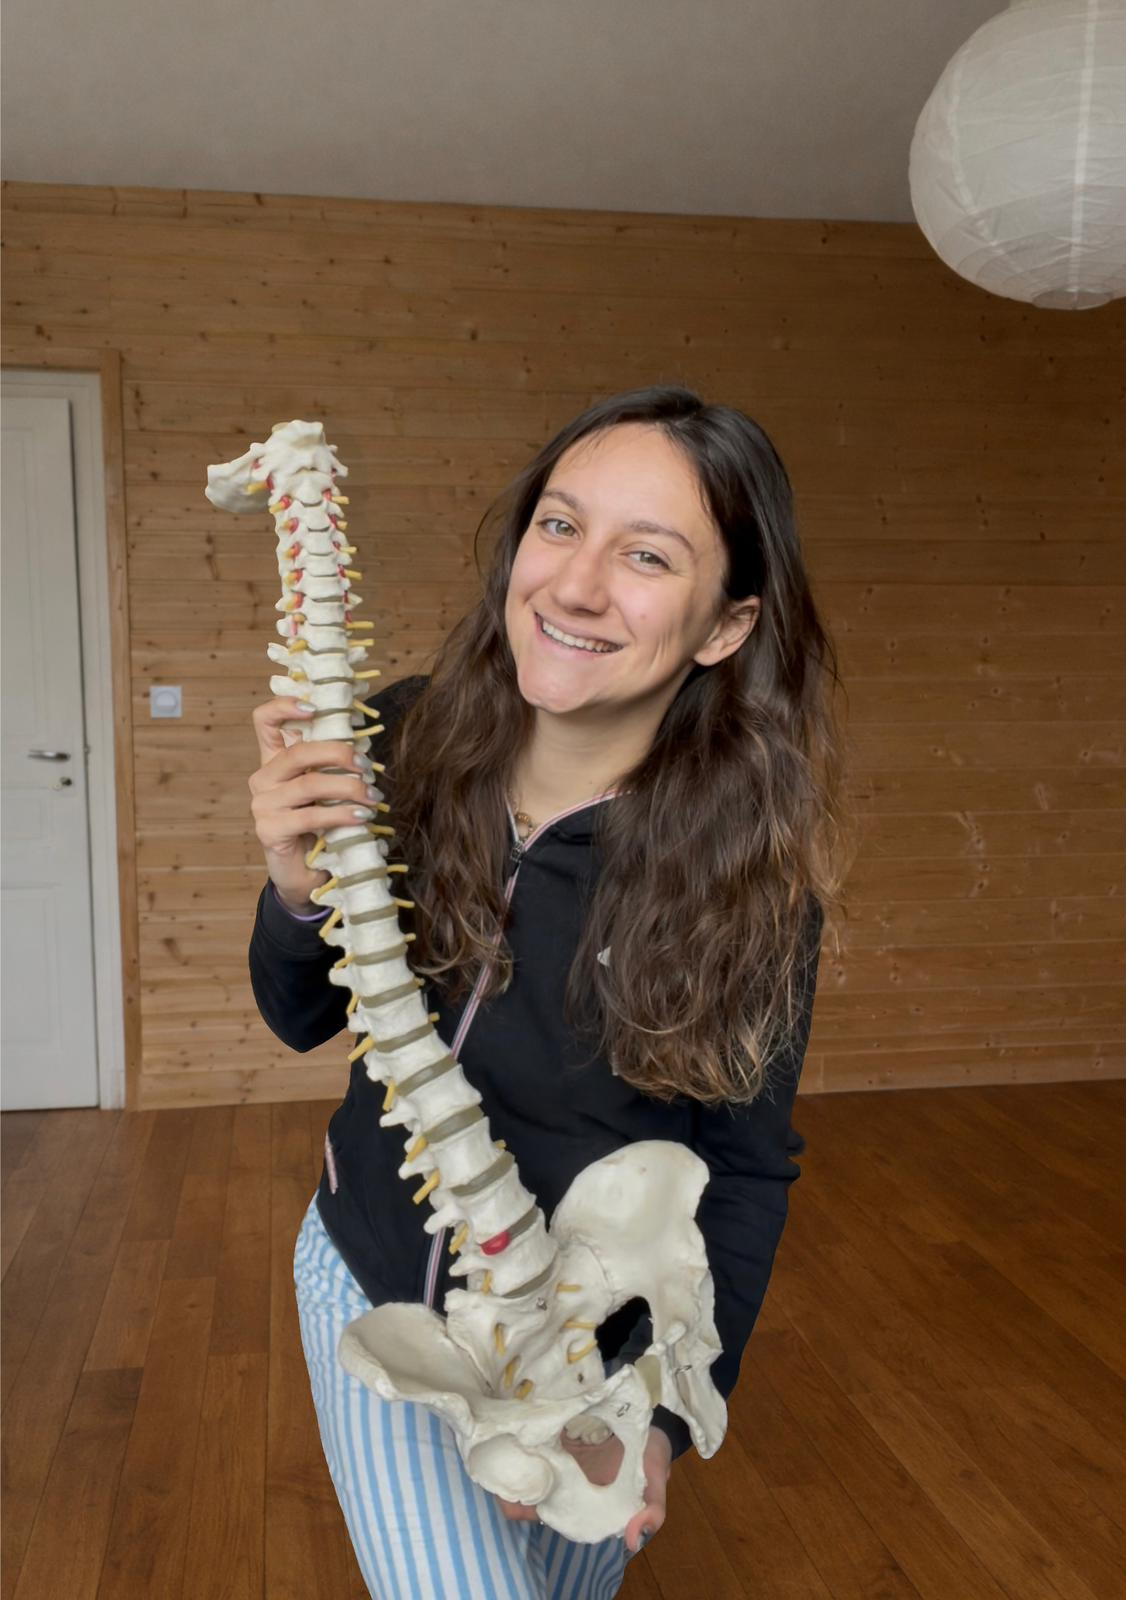
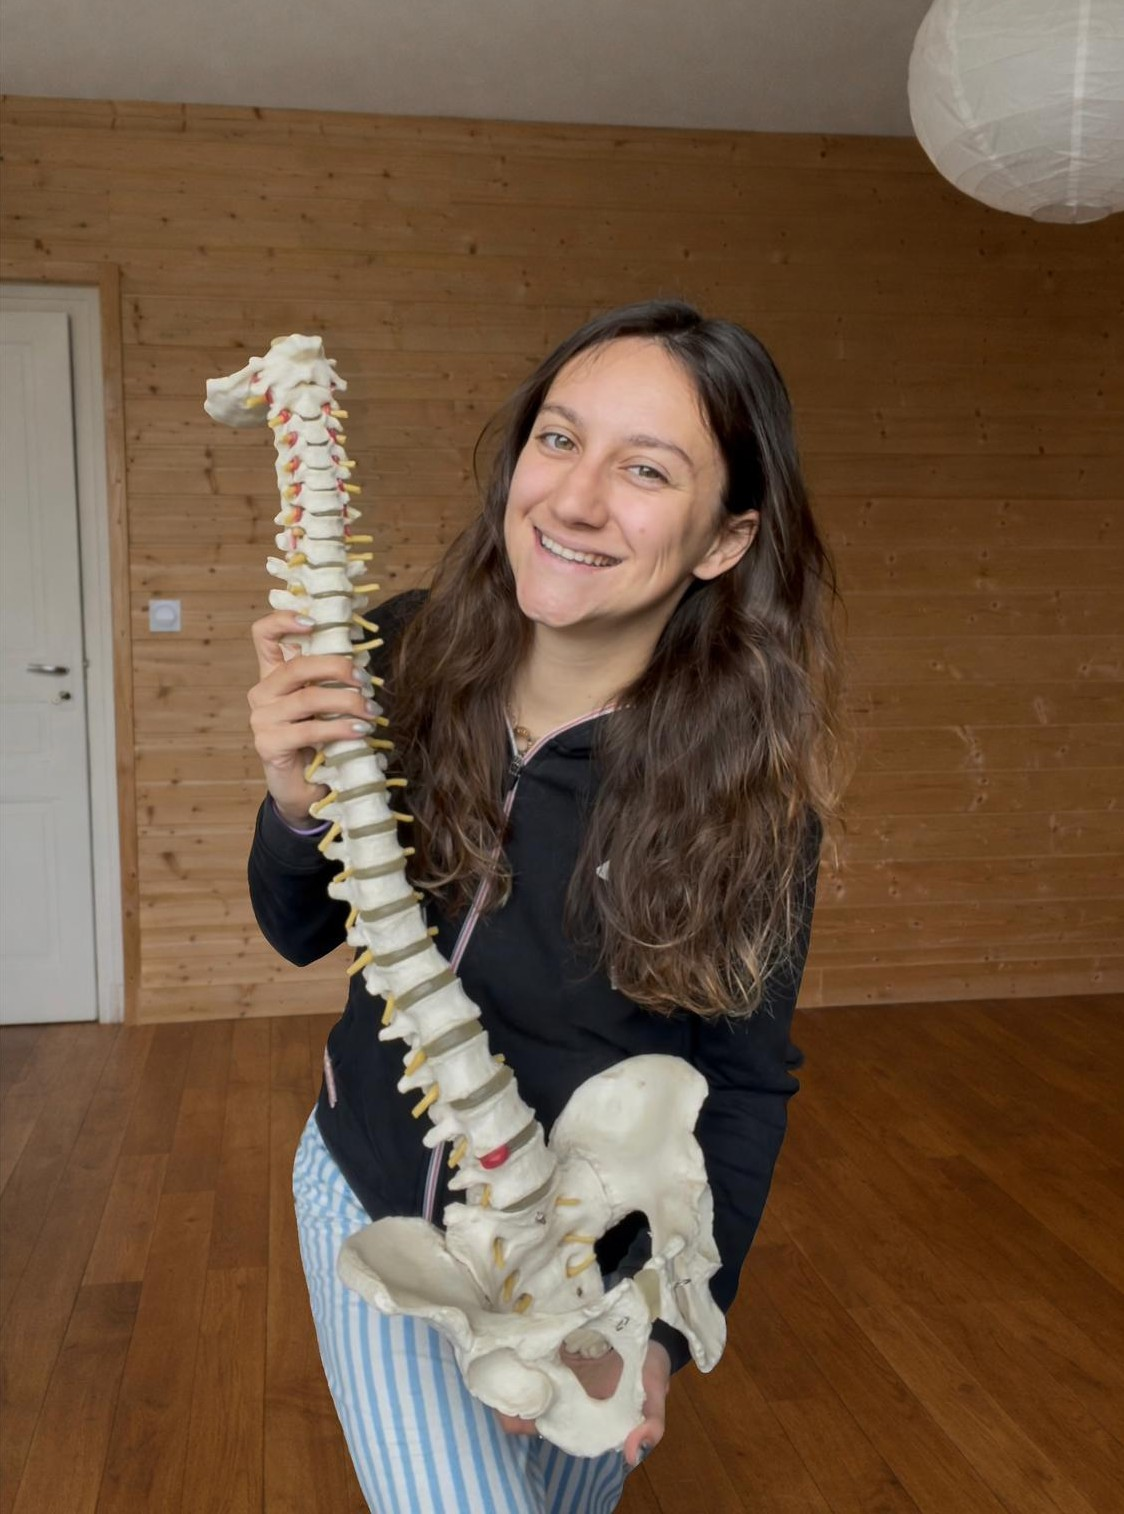
Refine chiropractic page presentation

diff --git a/Site Laly/chiropraxie.html b/Site Laly/chiropraxie.html
@@ -187,22 +187,26 @@
 
         <div class="chiro-methodes__profile">
           <figure class="chiro-methodes__photoWrap">
-            <img class="chiro-methodes__photo" src="assets/img/carol-anne-presentation.jpg" alt="Portrait de Carol-Anne Haderle" width="1126" height="1600" loading="lazy" decoding="async">
+            <img class="chiro-methodes__photo" src="assets/img/carol-anne-presentation.jpg" alt="Portrait de Carol-Anne Haderle" width="1124" height="1514" loading="lazy" decoding="async">
           </figure>
 
           <div class="chiro-methodes__profileText">
             <p class="chiro-methodes__eyebrow">Votre chiropracteure</p>
 
             <p class="chiro-methodes__lead">
-              <strong>Carol-Anne</strong>, <strong>diplômée de l’Institut Franco-Européen de Chiropraxie (IFEC)</strong>, vous reçoit à Bujaleuf dans une approche fondée sur <strong>l’écoute</strong>, la <strong>justesse du geste</strong> et le <strong>respect du rythme de chacun</strong>.
+              <strong>Carol-Anne</strong>, <strong>diplômée de l’Institut Franco-Européen de Chiropraxie (IFEC)</strong>
             </p>
 
             <p>
-              Chaque consultation commence par un temps d’<strong>échange</strong> et d’<strong>observation</strong>, pour comprendre votre corps, vos besoins et construire une <strong>prise en charge sur mesure</strong>, dans un cadre serein et rassurant.
+              C’est moi qui vous accompagne dans votre <strong>parcours chiropratique</strong> afin de vous aider à retrouver <strong>mobilité</strong>, <strong>confort</strong> et <strong>bien-être</strong>.
             </p>
 
             <p>
-              Mon intention est de vous aider à retrouver plus de <strong>mobilité</strong>, plus de <strong>confort</strong> et un <strong>équilibre durable</strong>.
+              Passionnée par le <strong>corps humain</strong> et par la possibilité d’aider mes patients <strong>grâce à mes mains</strong>, je vous reçois avec une <strong>approche attentive et personnalisée</strong>.
+            </p>
+
+            <p>
+              En dehors du cabinet, j’aime la danse, le nail art, la randonnée, la lecture, le soleil, les animaux (ils sont sept à la maison !) et les moments passés avec ma famille.
             </p>
 
             <div class="chiro-methodes__values">

diff --git a/Site Laly/assets/css/chiropraxie.css b/Site Laly/assets/css/chiropraxie.css
@@ -223,6 +223,7 @@
   margin:28px 0 0;
   padding:0;
   list-style:none;
+  counter-reset:seance-step;
 }
 
 .seance__step{
@@ -230,6 +231,7 @@
   grid-template-columns:46px 1fr;
   gap:14px;
   align-items:start;
+  counter-increment:seance-step;
 }
 
 .seance__badge{
@@ -608,7 +610,7 @@
 }
 
 .chiro-methodes--profil .chiro-methodes__photo{
-  object-position:center 28%;
+  object-position:center 56%;
 }
 
 .chiro-methodes--profil .chiro-methodes__profileText{
@@ -683,20 +685,35 @@
   }
 
   .seance__step{
-    grid-template-columns:40px 1fr;
-    gap:12px;
+    grid-template-columns:1fr;
+    gap:8px;
     align-items:start;
   }
 
   .seance__badge{
-    width:40px;
-    height:40px;
-    font-size:13px;
+    display:none;
   }
 
   .seance__card{
     padding:16px 14px 14px;
     border-radius:18px;
+  }
+
+  .seance__card::before{
+    content:"Étape " counter(seance-step);
+    display:inline-flex;
+    align-items:center;
+    min-height:28px;
+    margin-bottom:10px;
+    padding:0 10px;
+    border-radius:999px;
+    background:rgba(28,91,69,.09);
+    border:1px solid rgba(28,91,69,.12);
+    color:var(--c-primary);
+    font-size:11px;
+    font-weight:800;
+    letter-spacing:.08em;
+    text-transform:uppercase;
   }
 
   .seance__name{
@@ -756,8 +773,8 @@
 
   .chiro-methodes--profil .chiro-methodes__photo{
     min-height:260px;
-    max-height:340px;
-    object-position:center 22%;
+    max-height:380px;
+    object-position:center 58%;
   }
 
   .chiro-methodes--profil .chiro-methodes__profileText{

diff --git a/Site Laly/index.html b/Site Laly/index.html
@@ -73,7 +73,7 @@
       right: 0;
       bottom: calc(100% + 12px);
       width: min(300px, calc(100vw - 24px));
-      padding: 18px 16px 16px;
+      padding: 16px;
       border: 1px solid rgba(23, 54, 45, .12);
       border-radius: 22px;
       background: rgba(255, 252, 247, .96);
@@ -96,6 +96,8 @@
       position: absolute;
       top: 10px;
       right: 10px;
+      display: grid;
+      place-items: center;
       width: 30px;
       height: 30px;
       border: 0;
@@ -110,12 +112,15 @@
     .floating-contact__content{
       display: grid;
       gap: 10px;
+      padding-top: 28px;
     }
 
     .floating-contact__content a{
       display: flex;
-      align-items: center;
+      align-items: flex-start;
       gap: 12px;
+      width: 100%;
+      min-width: 0;
       padding: 12px 14px;
       border: 1px solid rgba(23, 54, 45, .08);
       border-radius: 16px;
@@ -131,6 +136,11 @@
       height: 18px;
       color: #1c5b45;
       flex: 0 0 auto;
+    }
+
+    .floating-contact__content a span{
+      min-width: 0;
+      overflow-wrap: anywhere;
     }
 
     @media (max-width: 768px){
